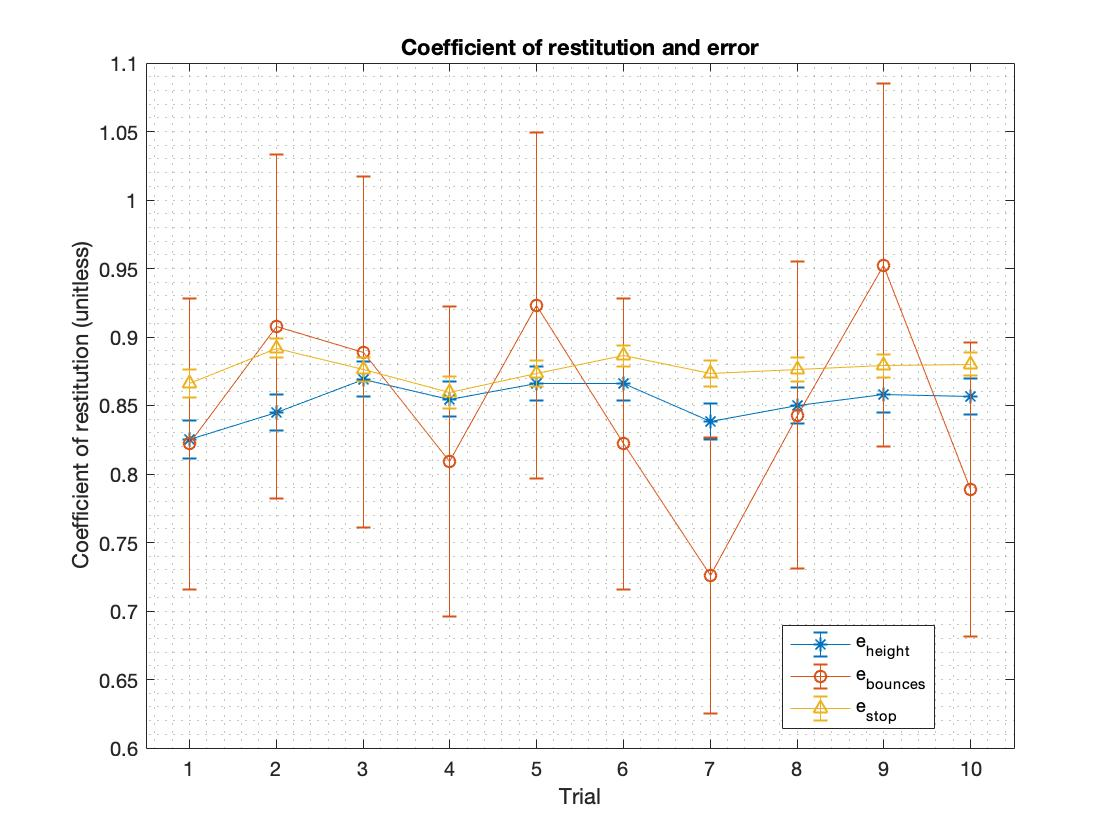
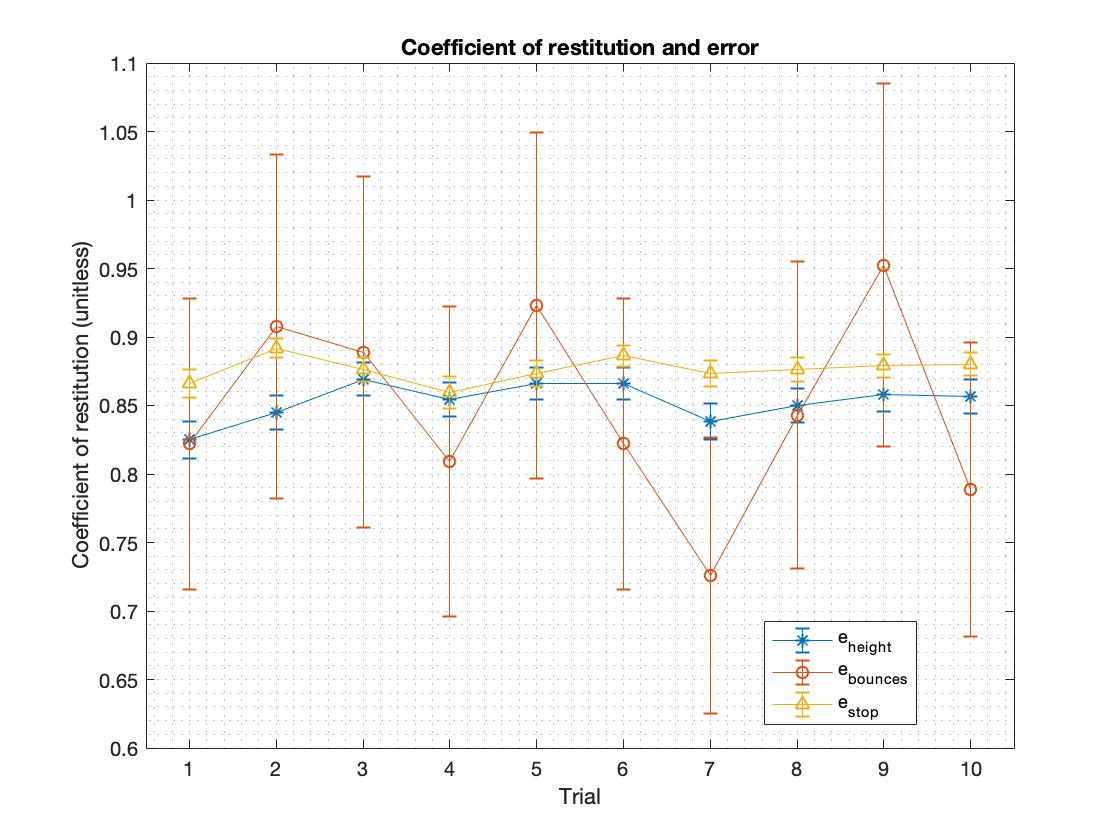
Adjusted errors and added comments

Changed region(s): [[0.6875, 0.7429, 0.8438, 0.8667]]

diff --git a/BouncingBall.m b/BouncingBall.m
@@ -1,5 +1,16 @@
 %% info
 
+% this script is part of CU's SP 18, 2003: Dynamics
+% lab to study the coefficient of restitution for balls, mainly a Ping Pong
+% ball. Data are stored in folder /Data in xcel file.
+% 
+% Done by:
+%
+% - Sarah Foley
+% - Hugo Stetz
+% - Alexander Lowry
+% - Abdulla Al Ameri
+
 
 %% get data
 
@@ -29,9 +40,9 @@ g = 386.09 ; % gravity in inches/s^2
 
 
 % error from instrument
-h0_error = 1/4 ; % the same for all trials
+h0_error = 1/14 ; % the same for all trials
 TotalTime_error = 0.5 ; % changes per trial
-Height_error = 1/4 ; % 1/4 inche is our error from height, eyeballed from the video
+Height_error = 1/14 ; % 1/4 inche is our error from height, eyeballed from the video
 Time_error_each_bounce = 0.05; %
 
 % random error

diff --git a/ImageTracking.m b/ImageTracking.m
@@ -2,6 +2,13 @@
 % this script is to estimate the coefficient of restitution of a ball using
 % an image trackign software.
 
+% Done by:
+% 
+% - Sarah Foley
+% - Hugo Stetz
+% - Alexander Lowry
+% - Abdulla Al Ameri
+
 
 %% import data:
 
@@ -68,8 +75,8 @@ e_height_8 = ( hn_Data8 / h0_trial_8 ) ^ ( 1 / ( 2 )) ;
 %% error analysis : all error sources
 
 % error from instrument
-h0_error_insturment = 1/4 ; % the same for all trials
-hn_error_insturment = 1/4 ; % 1/4 inche is our error from height, eyeballed from the video
+h0_error_insturment = 1/14 ; % the same for all trials
+hn_error_insturment = 1/14 ; % 1/4 inche is our error from height, eyeballed from the video
 
 % random error
 

diff --git a/ImprovedMethod.m b/ImprovedMethod.m
@@ -4,6 +4,14 @@
 % and also a tennis ball using an improved method, which depends on using audio waves to 
 % estimate the time between bounces and total time it took the ball to stop
 
+% Done by:
+% 
+% - Sarah Foley
+% - Hugo Stetz
+% - Alexander Lowry
+% - Abdulla Al Ameri
+
+
 
 %% read data
 
@@ -41,7 +49,7 @@ time_total_error_golf = sqrt ( (random_error_golf)^2 + (inst_error_golf)^2 ) ;
 h0_inches = 36 ; %inches.
 g = 386.09 ; % gravity in inches/s^2
 
-h0_error = 1/4 ; % the same for all trials
+h0_error = 1/14 ; % the same for all trials
 
 
 %% calculating e:
